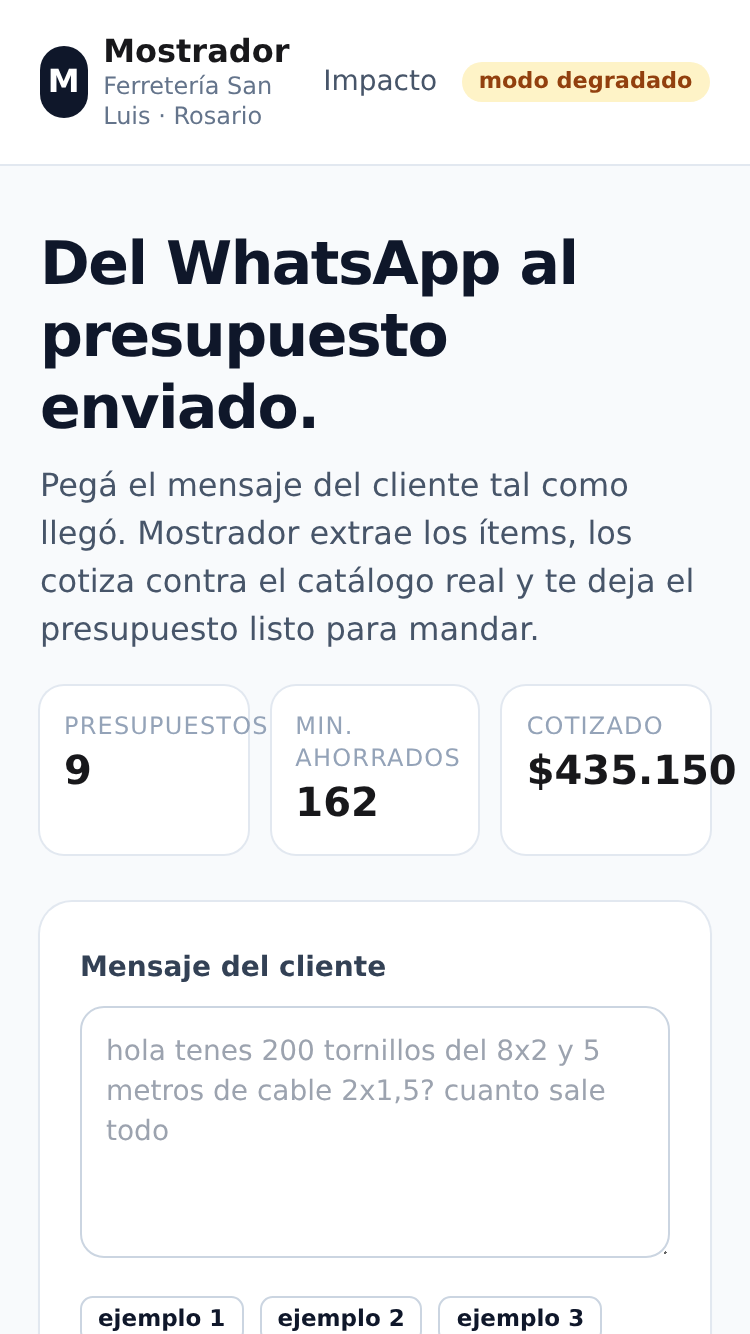
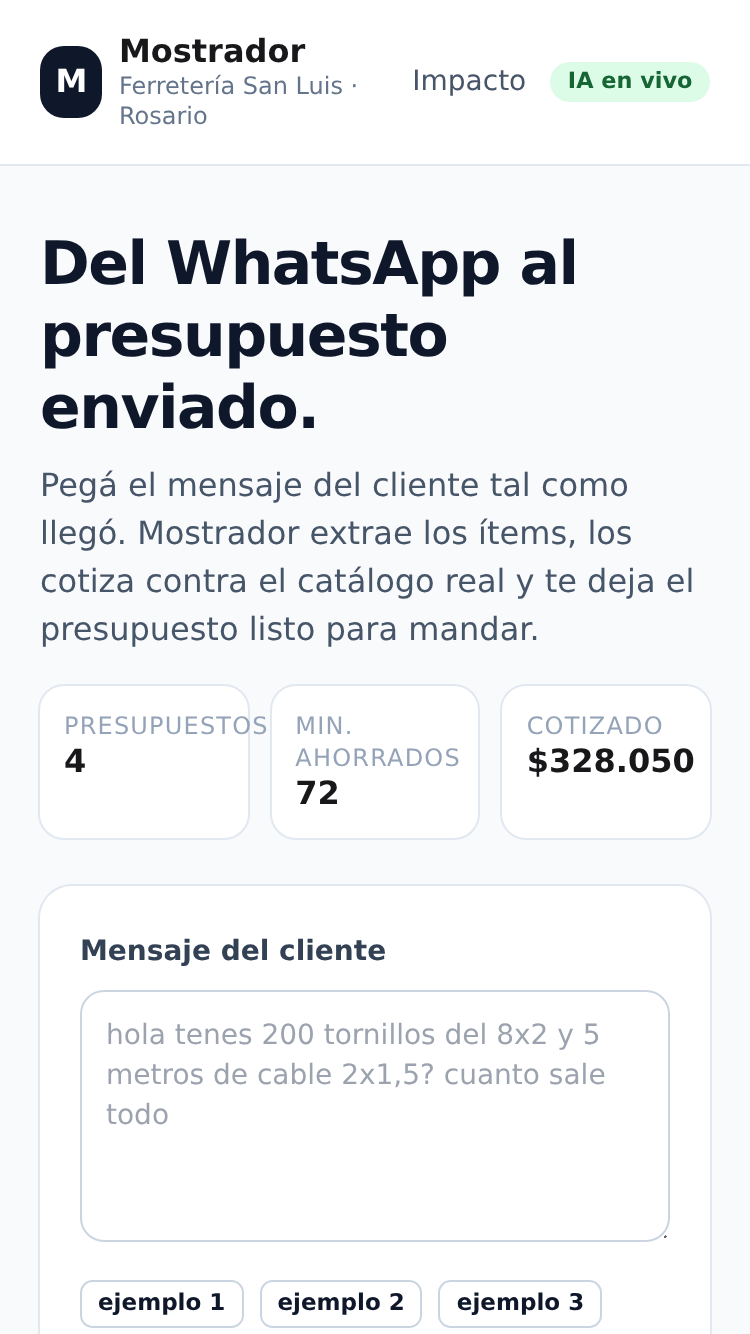
deploy: Mostrador en vivo en https://vps-6576881-x.dattaweb.com
Servidor: DonWeb Cloud Server #6576881, Ubuntu 24.04.5, 2 vCPU / 3.9 GB.
nginx :80/:443 -> node 127.0.0.1:3000 -> SQLite. systemd enabled. TLS Let's Encrypt
(hasta 2027-01-30). .env 600, context/raw no se sube.

IA: gpt-4o-mini en vivo (1.4-1.9 s por presupuesto, ~730 tokens de entrada).

Fixes que aparecieron al probar con el modelo real:
- prompt: preguntar el precio ES pedir presupuesto (antes devolvia items:[]).
- prompt+matcher: la cantidad ya no se cuela en descripcion_raw ('20 bolsas de
  cemento' daba confianza 0.44 y mandaba el item a revisar).
- matcher: variante sin numeros sueltos, asi '20 bolsas de cemento' matchea CEM-50
  sin perder la discriminacion de medidas ('2x1,5').
- ui: contadores que se salian de la tarjeta en 375px.

Verificado contra la URL publica: 5/5 casos dorados, 19/19 tests, mobile sin overflow.

diff --git a/src/services/catalog.js b/src/services/catalog.js
@@ -46,15 +46,23 @@ function matchItem(descripcion, productos, umbral = 0.55) {
   let best = { sku: null, nombre: null, unidad: null, precio_ars: 0, confianza: 0, matched_on: [] };
   if (!q.length) return { ...best, requiere_revision: true };
 
+  // Si el texto trae un numero suelto que en realidad es la cantidad ("20 bolsas
+  // de cemento"), ese token hunde la cobertura. Probamos tambien sin numeros
+  // sueltos y nos quedamos con la mejor lectura: las medidas ("2x1.5") no se tocan.
+  const sinSueltos = q.filter(t => !SOLO_NUMERO.test(t));
+  const variantes = sinSueltos.length && sinSueltos.length < q.length ? [q, sinSueltos] : [q];
+
   for (const p of productos) {
     const hay = new Set(tokens(`${p.nombre} ${p.aliases || ''}`));
-    const hit = q.filter(t => [...hay].some(h => coincide(t, h)));
-    if (!hit.length) continue;
-    const cobertura = hit.length / q.length;
-    const precision = hit.length / Math.max(hay.size, 1);
-    const confianza = Math.round((cobertura * 0.8 + precision * 0.2) * 100) / 100;
-    if (confianza > best.confianza) {
-      best = { sku: p.sku, nombre: p.nombre, unidad: p.unidad, precio_ars: p.precio_ars, confianza, matched_on: hit };
+    for (const variante of variantes) {
+      const hit = variante.filter(t => [...hay].some(h => coincide(t, h)));
+      if (!hit.length) continue;
+      const cobertura = hit.length / variante.length;
+      const precision = hit.length / Math.max(hay.size, 1);
+      const confianza = Math.round((cobertura * 0.8 + precision * 0.2) * 100) / 100;
+      if (confianza > best.confianza) {
+        best = { sku: p.sku, nombre: p.nombre, unidad: p.unidad, precio_ars: p.precio_ars, confianza, matched_on: hit };
+      }
     }
   }
   if (best.confianza < umbral) {

diff --git a/tests/catalog.test.js b/tests/catalog.test.js
@@ -57,3 +57,14 @@ test('no inventa match cuando solo coincide el numero', () => {
   const m = matchItem('amalgama dental 8', PRODUCTS);
   assert.strictEqual(m.sku, null);
 });
+
+test('la cantidad pegada en la descripcion no rompe el match', () => {
+  const m = matchItem('20 bolsas de cemento', PRODUCTS);
+  assert.strictEqual(m.sku, 'CEM-50');
+  assert.ok(m.confianza >= 0.55, `confianza ${m.confianza} deberia superar el umbral`);
+});
+
+test('la medida pegada a la cantidad sigue discriminando', () => {
+  const m = matchItem('12 metros de cable 2x1,5', PRODUCTS);
+  assert.strictEqual(m.sku, 'CAB-2x15');
+});

diff --git a/src/prompts/extraer-pedido.v1.md b/src/prompts/extraer-pedido.v1.md
@@ -13,8 +13,8 @@ Sos el mostrador de una ferretería de barrio de Rosario. Recibís un mensaje de
 1. **Nunca inventes precios.** No devuelvas dinero, totales ni precios por ítem. El sistema cotiza contra el catálogo real.
 2. **Nunca inventes un SKU.** `sku_sugerido` es solo una pista textual de lo que dijo el cliente; el catálogo decide.
 3. Si una cantidad no está explícita, asumí `1` y agregá `"cantidad"` a `missing_fields`.
-4. Si el mensaje no contiene ningún pedido concreto, devolvé `items: []` y `missing_fields: ["descripcion"]`.
-5. Copiá `descripcion_raw` **literal** como lo escribió el cliente (sin corregir ortografía ni normalizar unidades).
+4. **Preguntar el precio ES pedir un presupuesto.** "¿cuánto sale X?", "me pasás precio de X", "¿tenés X?" son pedidos: devolvé ese ítem con `cantidad: 1` y sumá `"cantidad"` a `missing_fields` si no la dijo. Solo devolvé `items: []` cuando el mensaje no menciona ningún producto (un saludo, una consulta genérica, una queja).
+5. Copiá `descripcion_raw` **literal** como lo escribió el cliente, pero **sin la cantidad**: `"20 bolsas de cemento"` → `descripcion_raw: "bolsas de cemento"`, `cantidad: 20`. Los números que son **medida** sí van en la descripción (`"cable 2x1,5"`, `"latex 20 litros"`); los que son **cuántas unidades** van solo en `cantidad`.
 6. Español rioplatense. No agregues explicaciones fuera del JSON.
 
 # Unidades válidas
@@ -30,3 +30,6 @@ Extraé `cliente.nombre`, `cliente.telefono` y `cliente.email` solo si están es
 
 **Entrada:** `buenas`
 **Salida:** `{"items":[],"cliente":{"nombre":null,"telefono":null,"email":null},"missing_fields":["descripcion"],"notas":"El cliente saludó pero no pidió nada."}`
+
+**Entrada:** `cuanto sale un balde de latex 20 litros?`
+**Salida:** `{"items":[{"descripcion_raw":"balde de latex 20 litros","cantidad":1,"unidad":"balde","sku_sugerido":"latex 20 litros"}],"cliente":{"nombre":null,"telefono":null,"email":null},"missing_fields":["cantidad"],"notas":null}`

diff --git a/README.md b/README.md
@@ -2,7 +2,7 @@
 
 **El mostrador de tu ferretería que nunca duerme.** El dueño pega el mensaje de WhatsApp del cliente; Mostrador extrae los ítems, los cotiza contra el catálogo real de la ferretería y devuelve un presupuesto listo para mandar por email. De ~20 minutos a ~2.
 
-- **App:** `http://<IP-DEL-CLOUD-SERVER>/` (DonWeb Cloud Server, Ubuntu 24.04 · nginx → Node `127.0.0.1:3000` → SQLite)
+- **App en vivo:** **https://vps-6576881-x.dattaweb.com/** (DonWeb Cloud Server #6576881, Ubuntu 24.04.5 · nginx → Node `127.0.0.1:3000` → SQLite · TLS Let's Encrypt)
 - **Evento:** DonWeb Day Rosario 2026 — Hackatón "Del problema al servidor" (1/11/2026, 15:15 → 18:30)
 
 ---
